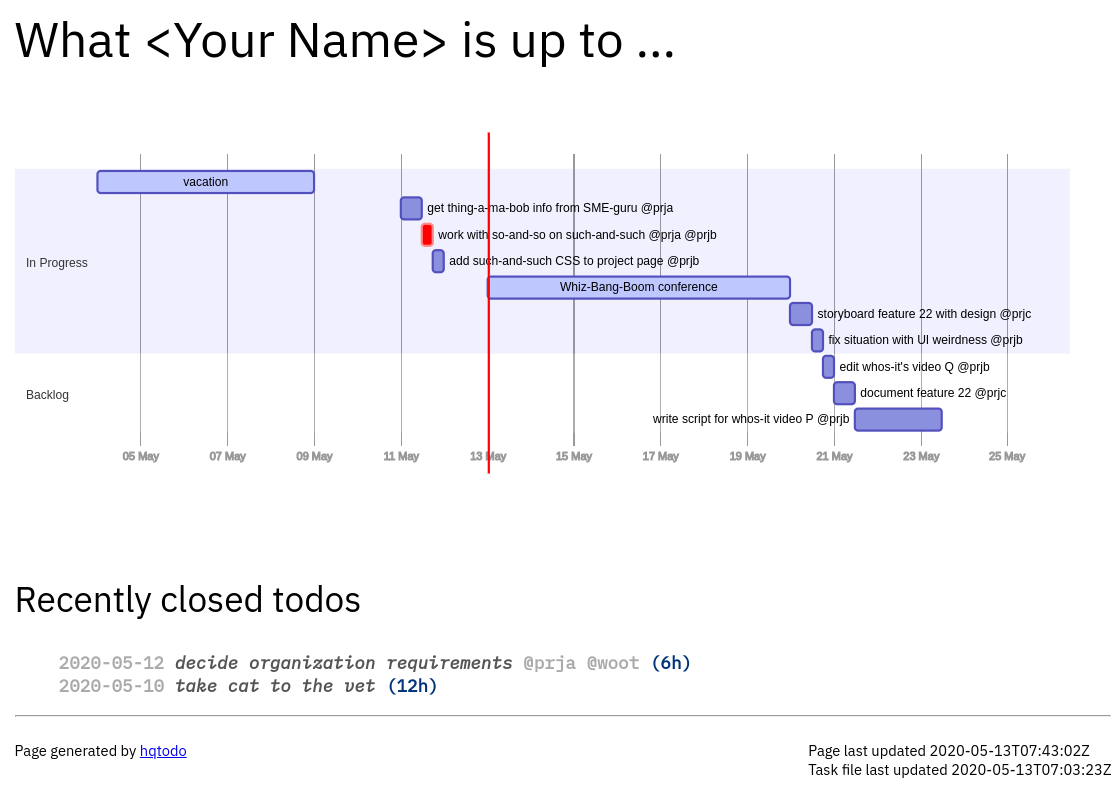
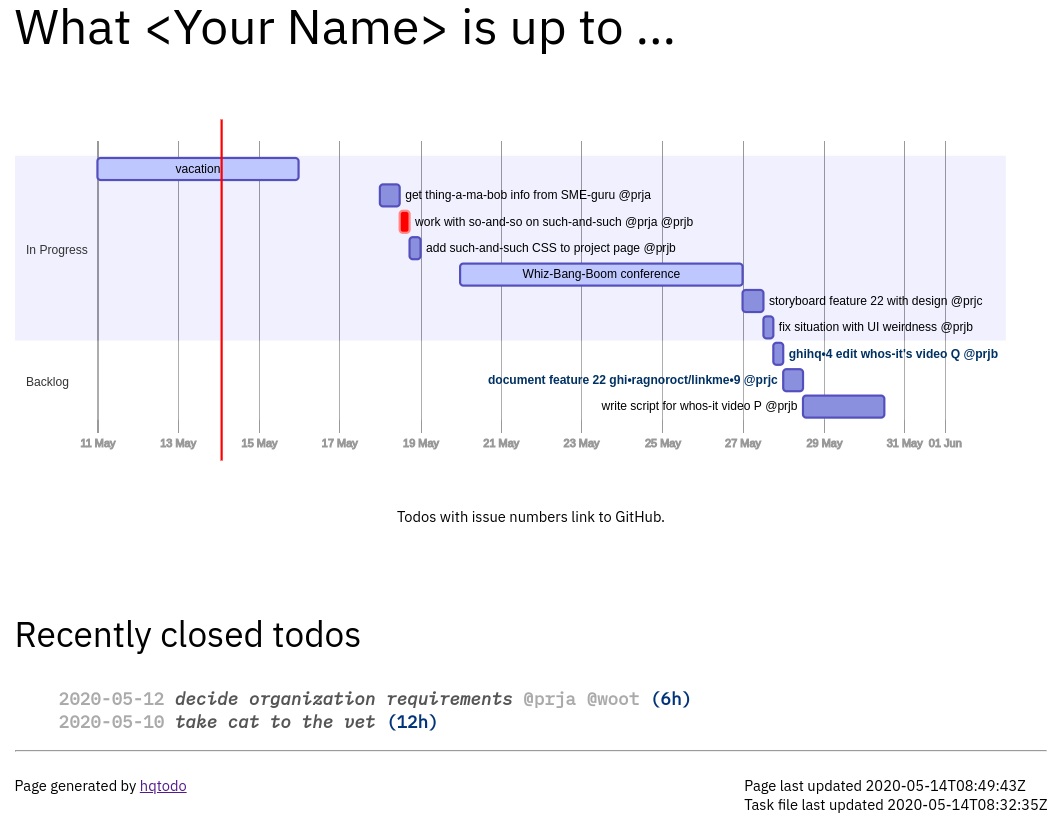
support github links, closes #4

diff --git a/routes/index.js b/routes/index.js
@@ -6,6 +6,7 @@ const config = require('config');
 const router = express.Router();
 
 const WHOAMI = config.get('yourName');
+const LINKPATTERNS = config.get('linkmeLinks');
 const HOURADJUST = (24 / config.get('workHoursPerDay')).toFixed(); // 24hr day / 8hr workday
 
 const A_DAY = moment.duration(1, 'd');
@@ -39,6 +40,18 @@ const _handleTags = (tags) => {
   return [estimate, tagstring.trimRight()];
 }
 
+const _getLinkUrl = (str) => {
+  for (pat of LINKPATTERNS) {
+    // assist https://stackoverflow.com/a/494046
+    const searchpat = new RegExp(`\\b${pat.pattern}\\b`);
+    const matched = str.match(searchpat);
+    if (matched) {
+      return matched[0].replace(searchpat, pat.url);
+    }
+  }
+  return null;
+}
+
 /**
  * A process in the pipeline that takes an array of todo strings and
  * breaks it up into the initial `issues` data structure.
@@ -52,7 +65,8 @@ const parseRawTodos = () => {
         pending: []
       },
       closed: [],
-      interrupts: []
+      interrupts: [],
+      links: []
     }
     // parse each line and push the data record to the right place in the structure
     for (let i = 0, j = 1; i < res.locals.rawTodos.length; i++) {
@@ -64,6 +78,9 @@ const parseRawTodos = () => {
       if (m) {
         // skip Frozens
         if (m[2] && m[2] == '@low') continue;
+        // quickly grab linkUrl if any
+        let linkUrl = m[3] ? _getLinkUrl(m[3]) : null;
+        if (linkUrl) issues.links.push({ id: `k${j.toString()}`, url: linkUrl });
         // quickly add interrupts
         if (m[3].match(/^\[/)) {
           const m4 = m[3].match(/^\[(\d+d) starting (\d\d\d\d-\d\d-\d\d)\]: (.*)$/);
